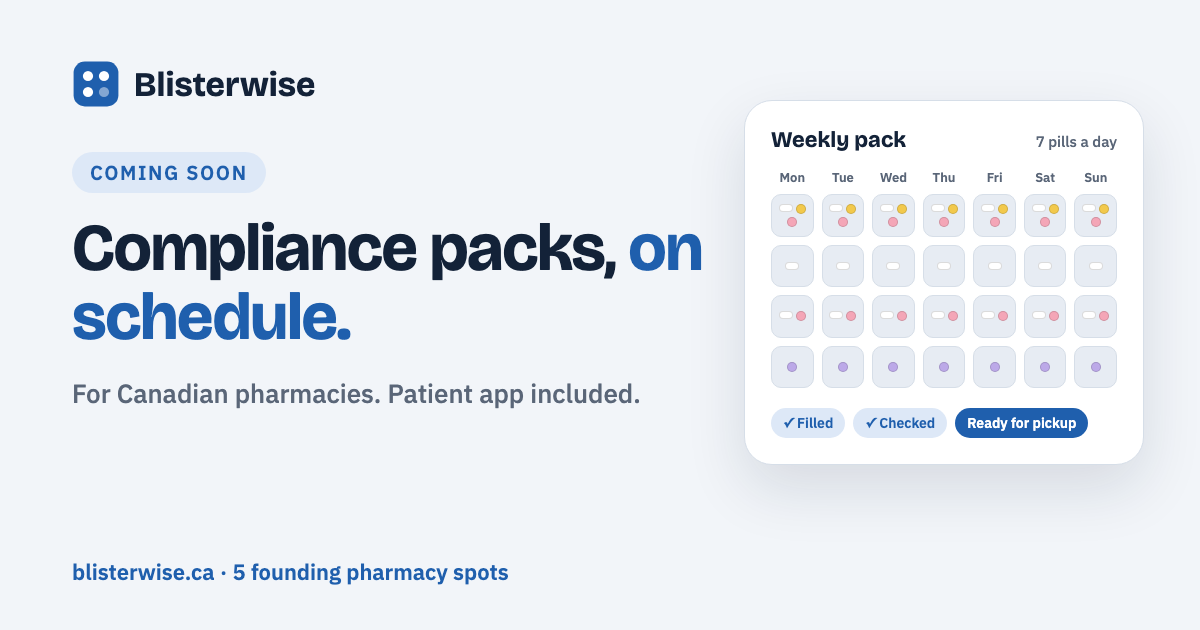
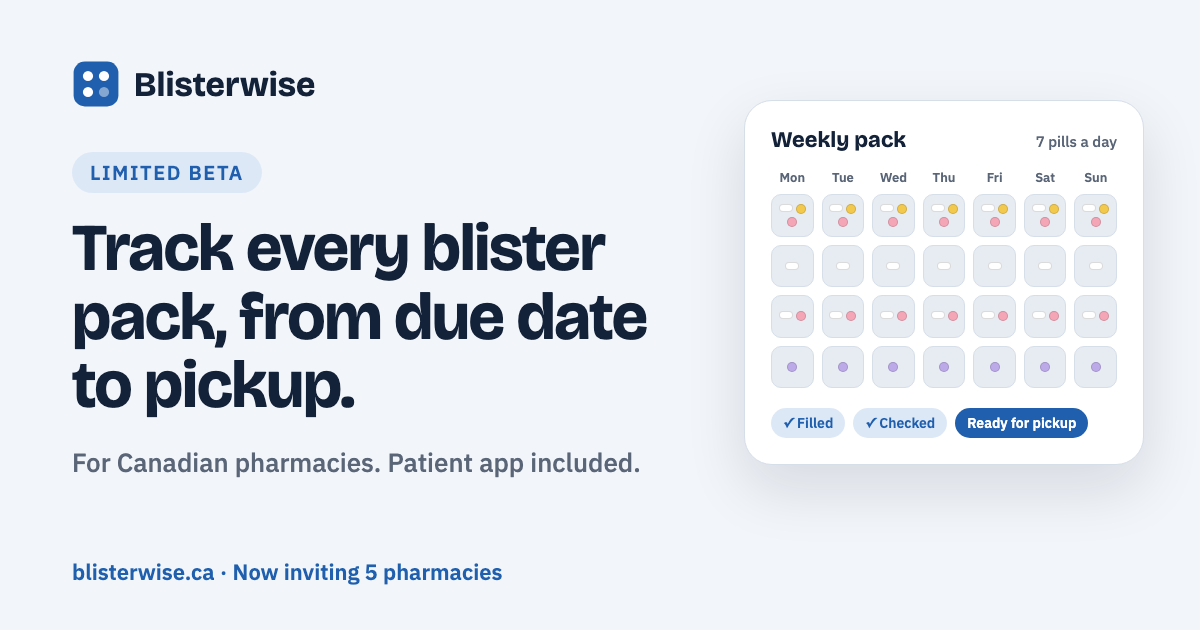
Plainer headings, limited beta and a clear pricing section
Based on feedback that the big display headlines said little and the
pricing block was confusing:
- Headings are now plain sentences that say what Blisterwise does, in
  the body font at a normal size; the descriptive paragraph leads.
- "Pilot" becomes a limited beta of 5 pharmacies, with three plain points.
- A separate Pricing section lays out what a beta pharmacy pays and when:
  free for 12 weeks, $149 a month for the next 12 months, then $299.
- Updated link preview image, page title and privacy page wording.

diff --git a/index.html b/index.html
@@ -3,17 +3,17 @@
 <head>
 <meta charset="utf-8">
 <meta name="viewport" content="width=device-width, initial-scale=1">
-<title>Blisterwise — coming soon</title>
-<meta name="description" content="Blisterwise helps Canadian pharmacies track compliance packs: who's due, what's filled, what's checked and what's gone out. Apply to be one of 5 founding pilot pharmacies.">
-<meta property="og:title" content="Blisterwise — compliance packs, on schedule">
-<meta property="og:description" content="Coming soon for Canadian pharmacies. Apply to be one of 5 founding pilot pharmacies.">
+<title>Blisterwise: blister pack tracking for Canadian pharmacies</title>
+<meta name="description" content="Blisterwise helps Canadian pharmacies track compliance packs: who's due, what's filled, what's checked and what's gone out. Apply to join the limited beta.">
+<meta property="og:title" content="Blisterwise: blister pack tracking for Canadian pharmacies">
+<meta property="og:description" content="Track every blister pack, from due date to pickup. Limited beta for Canadian pharmacies.">
 <meta property="og:type" content="website">
 <meta property="og:site_name" content="Blisterwise">
 <meta property="og:url" content="https://blisterwise.ca/">
 <meta property="og:image" content="https://blisterwise.ca/og-image.png">
 <meta property="og:image:width" content="1200">
 <meta property="og:image:height" content="630">
-<meta property="og:image:alt" content="Blisterwise: compliance packs, on schedule. A weekly blister pack, filled, checked and ready for pickup.">
+<meta property="og:image:alt" content="Blisterwise: track every blister pack, from due date to pickup. A weekly blister pack, filled, checked and ready for pickup.">
 <meta name="twitter:card" content="summary_large_image">
 <link rel="icon" href="favicon.svg" type="image/svg+xml">
 <link rel="apple-touch-icon" href="apple-touch-icon.png">
@@ -37,7 +37,7 @@
   body{margin:0; background:var(--bg); color:var(--ink); font:17px/1.6 var(--f-body); -webkit-font-smoothing:antialiased}
   a{color:inherit; text-underline-offset:3px}
   .wrap{max-width:1140px; margin:0 auto; padding:0 24px}
-  h1,h2{font-family:var(--f-display); font-weight:200; line-height:.95; letter-spacing:-.005em; margin:0}
+  h1,h2{font-family:var(--f-body); font-weight:600; line-height:1.2; letter-spacing:-.01em; margin:0}
   h3{font-size:18px; font-weight:600; margin:0}
   .label{display:block; font-size:12px; font-weight:600; letter-spacing:.14em; text-transform:uppercase; color:var(--muted); margin-bottom:22px}
   .muted{color:var(--muted)}
@@ -61,7 +61,7 @@
 
   /* Hero */
   .hero{display:grid; grid-template-columns:1.12fr .88fr; gap:64px; align-items:center; padding:72px 0 72px}
-  .hero h1{font-size:clamp(60px,7.4vw,112px)}
+  .hero h1{font-size:clamp(30px,3.4vw,42px); max-width:20ch}
   .hero h1 em{white-space:nowrap}
   .hero h1 em{font-style:normal; color:var(--accent)}
   .lead{font-size:clamp(18px,1.6vw,20px); color:var(--muted); max-width:31em; margin:28px 0 36px}
@@ -85,7 +85,7 @@
 
   /* Sections */
   section{padding:80px 0; border-top:1px solid var(--line)}
-  section h2{font-size:clamp(48px,6.4vw,84px)}
+  section h2{font-size:clamp(24px,2.6vw,32px); max-width:28ch}
   .split{display:grid; grid-template-columns:.9fr 1.1fr; gap:64px; align-items:start}
 
   .features{display:grid; grid-template-columns:repeat(3,1fr); gap:40px; margin-top:48px}
@@ -134,6 +134,13 @@
   .figures .big{display:block; font:200 clamp(56px,6vw,84px)/.9 var(--f-display); white-space:nowrap}
   .figures .big em{font-style:normal; color:var(--accent)}
   .figures p{margin:12px 0 0; color:var(--muted)}
+  .timeline{list-style:none; padding:0; margin:0}
+  .timeline li{display:flex; justify-content:space-between; align-items:baseline; gap:16px; padding:18px 0; border-top:1px solid var(--line)}
+  .timeline li:last-child{border-bottom:1px solid var(--line)}
+  .timeline .when{color:var(--muted)}
+  .timeline .price{font-size:22px; font-weight:600; white-space:nowrap}
+  .timeline .price small{font-size:15px; font-weight:400; color:var(--muted)}
+  #pricing .fine{display:block; margin-top:16px}
   .offer-cta{margin-top:48px; display:flex; flex-wrap:wrap; gap:24px; align-items:center}
   .fine{font-size:14px; color:var(--muted)}
 
@@ -171,7 +178,7 @@
   form.pilot .btn[disabled]{opacity:.5; cursor:wait}
   .status{font-size:14px}
   .thanks{border-top:1px solid var(--ink); padding-top:28px}
-  .thanks h2{font-size:clamp(44px,5vw,64px)}
+  .thanks h2{font-size:clamp(24px,2.6vw,32px)}
   .thanks p{color:var(--muted); margin:16px 0 0}
 
   footer{border-top:1px solid var(--line)}
@@ -199,7 +206,8 @@
     <nav aria-label="Main">
       <a href="#pharmacies">For pharmacies</a>
       <a href="#patients">For patients</a>
-      <a href="#pilot-offer">Pilot</a>
+      <a href="#pilot-offer">Beta</a>
+      <a href="#pricing">Pricing</a>
       <a class="btn small" href="#apply">Apply</a>
     </nav>
   </div>
@@ -208,12 +216,12 @@
 <main class="wrap">
   <div class="hero">
     <div>
-      <span class="label">Coming soon · For Canadian pharmacies</span>
-      <h1>Compliance packs, <em>on schedule.</em></h1>
+      <span class="label">Limited beta · For Canadian pharmacies</span>
+      <h1>Track every blister pack, from due date to pickup.</h1>
       <p class="lead">Blisterwise keeps every blister pack on track: who's due this week, what's been filled, what the pharmacist has checked and what's gone out the door. Patients get their own app, too.</p>
       <div class="actions">
-        <a class="btn" href="#apply">Apply for the pilot <span class="arr">→</span></a>
-        <span class="note">5 founding spots</span>
+        <a class="btn" href="#apply">Apply for the beta <span class="arr">→</span></a>
+        <span class="note">5 pharmacies</span>
       </div>
     </div>
 
@@ -226,7 +234,7 @@
 
   <section id="pharmacies">
     <span class="label">For pharmacies</span>
-    <h2>Built for the pack room.</h2>
+    <h2>Schedule, fill, check and hand off every pack in one place.</h2>
     <div class="features">
       <div><h3>Know who's due</h3><p>One list of every pack coming up, with prep and billing dates worked out for weekly, two-week and monthly patients.</p></div>
       <div><h3>Fill and check with confidence</h3><p>Scan each bottle to catch the wrong drug, strength or expiry. A second person checks it before it leaves.</p></div>
@@ -238,8 +246,8 @@
     <div class="split">
       <div>
         <span class="label">For patients and families</span>
-        <h2>An app that explains the pack.</h2>
-        <p class="lead" style="margin-bottom:0">Patients and caregivers see what's coming and what's inside, without calling the pharmacy.</p>
+        <h2>Patients see what's in each pack and when it's ready.</h2>
+        <p class="lead" style="margin-bottom:0">Patients and caregivers get their own app, so they don't need to call the pharmacy to ask.</p>
         <ul class="points">
           <li><h3>When the next pack is ready</h3><p>Pickup or delivery day, updated as the pharmacy fills and checks it.</p></li>
           <li><h3>What's in each pocket</h3><p>Tap a pocket to see each pill, what it looks like and what it's for.</p></li>
@@ -304,19 +312,38 @@
   <section id="pilot-offer">
     <div class="split">
       <div>
-        <span class="label">Founding pharmacies</span>
-        <h2>Help shape Blisterwise.</h2>
-        <p class="lead" style="margin-bottom:0">We're looking for 5 Canadian pharmacies to try it, tell us what works and what doesn't.</p>
+        <span class="label">Limited beta</span>
+        <h2>We're inviting 5 Canadian pharmacies to use Blisterwise first.</h2>
+        <p class="lead" style="margin-bottom:0">Tell us what works and what doesn't, and help decide what we build next.</p>
       </div>
       <div>
-        <div class="figures">
-          <div><span class="big">12 weeks</span><p>Free pilot, with setup help.</p></div>
-          <div><span class="big"><em>$149</em></span><p>A month for your first year. Regular price $299 a month.</p></div>
-        </div>
+        <ul class="points" style="margin-top:0">
+          <li><h3>Free for the first 12 weeks</h3><p>No cost while you try it with your team. <a href="#pricing">See pricing</a>.</p></li>
+          <li><h3>Set up with you, in person</h3><p>We come to your pharmacy, get you started and train your staff.</p></li>
+          <li><h3>A direct line to the founder</h3><p>Regular check-ins, and fixes based on what you need.</p></li>
+        </ul>
         <div class="offer-cta">
-          <a class="btn" href="#apply">Apply for the pilot <span class="arr">→</span></a>
-          <span class="fine">Applying is free and doesn't commit you to anything.<br>Prices in Canadian dollars, plus applicable taxes.</span>
+          <a class="btn" href="#apply">Apply for the beta <span class="arr">→</span></a>
+          <span class="fine">Applying is free and doesn't commit you to anything.</span>
         </div>
+      </div>
+    </div>
+  </section>
+
+  <section id="pricing">
+    <div class="split">
+      <div>
+        <span class="label">Pricing</span>
+        <h2>What a beta pharmacy pays.</h2>
+        <p class="lead" style="margin-bottom:0">One price per pharmacy, for all your staff and patients. Nothing to pay until the 12 free weeks are over, and no obligation to continue.</p>
+      </div>
+      <div>
+        <ol class="timeline">
+          <li><span class="when">First 12 weeks</span><span class="price">Free</span></li>
+          <li><span class="when">Next 12 months</span><span class="price">$149<small> / month</small></span></li>
+          <li><span class="when">After that</span><span class="price">$299<small> / month</small></span></li>
+        </ol>
+        <p class="fine">In Canadian dollars, plus applicable taxes. $299 a month is the regular price for pharmacies that join after the beta.</p>
       </div>
     </div>
   </section>
@@ -325,12 +352,12 @@
     <div class="split">
       <div class="apply-intro">
         <span class="label">Apply</span>
-        <h2>Apply for the pilot.</h2>
+        <h2>Apply for the beta.</h2>
         <p class="lead">Tell us a little about your pharmacy. It takes about two minutes, and we'll reply within a few days.</p>
         <ol class="next">
           <li><h3>We reply within a few days</h3><p>A short email from Haasita, the founder.</p></li>
           <li><h3>An in-person visit</h3><p>We come to your pharmacy, see how you handle packs today and show you Blisterwise.</p></li>
-          <li><h3>Choosing the founding 5</h3><p>If it's a fit, we sign a short pilot agreement, including confidentiality, and set you up for the free 12-week pilot.</p></li>
+          <li><h3>Choosing the 5 beta pharmacies</h3><p>If it's a fit, we sign a short agreement, including confidentiality, and set you up.</p></li>
         </ol>
         <p class="fine">Please don't include any patient information.</p>
       </div>
@@ -383,7 +410,7 @@
             </div><div class="err"></div>
           </fieldset>
           <fieldset class="fld" data-required>
-            <legend>Interested in being one of the 5 founding pilot pharmacies?</legend>
+            <legend>Interested in being one of the 5 beta pharmacies?</legend>
             <div class="choices">
               <label><input type="radio" name="founding" value="Yes">Yes</label>
               <label><input type="radio" name="founding" value="Maybe, tell me more">Maybe, tell me more</label>
@@ -392,7 +419,7 @@
           <div class="fld"><label for="f-wishes">Anything you'd want Blisterwise to do? <span class="opt">(optional)</span></label><textarea id="f-wishes" name="wishes" maxlength="1000" placeholder="e.g. Remind us when a patient's billing date is coming up"></textarea></div>
           <div class="trap" aria-hidden="true"><label>Website <input type="text" name="website" tabindex="-1" autocomplete="off"></label></div>
           <div class="fld" data-required>
-            <label class="consent"><input type="checkbox" name="consent" value="Yes"><span>I agree to be contacted by Blisterwise about the pilot. We'll only use your details for this (<a href="privacy.html" target="_blank">privacy</a>).</span></label><div class="err"></div>
+            <label class="consent"><input type="checkbox" name="consent" value="Yes"><span>I agree to be contacted by Blisterwise about the beta. We'll only use your details for this (<a href="privacy.html" target="_blank">privacy</a>).</span></label><div class="err"></div>
           </div>
           <button class="btn" type="submit">Send application <span class="arr">→</span></button>
           <div class="status" role="status" aria-live="polite"></div>

diff --git a/privacy.html b/privacy.html
@@ -4,7 +4,7 @@
 <meta charset="utf-8">
 <meta name="viewport" content="width=device-width, initial-scale=1">
 <title>Privacy — Blisterwise</title>
-<meta name="description" content="How Blisterwise handles the information you send through the pilot application form.">
+<meta name="description" content="How Blisterwise handles the information you send through the beta application form.">
 <link rel="icon" href="favicon.svg" type="image/svg+xml">
 <link rel="preconnect" href="https://fonts.googleapis.com">
 <link rel="preconnect" href="https://fonts.gstatic.com" crossorigin>
@@ -38,15 +38,15 @@
 
   <main>
     <h1>Privacy</h1>
-    <p class="updated">Last updated November 11, 2026</p>
-    <p>This page explains what happens to the information you send us when you apply for the Blisterwise pilot on this website.</p>
+    <p class="updated">Last updated November 13, 2026</p>
+    <p>This page explains what happens to the information you send us when you apply for the Blisterwise beta on this website.</p>
 
     <h2>What we collect</h2>
-    <p>Only what you type into the pilot application form: your name, pharmacy name, role, city and province, work email, phone number (if you give it), and your answers about how your pharmacy handles compliance packs.</p>
+    <p>Only what you type into the beta application form: your name, pharmacy name, role, city and province, work email, phone number (if you give it), and your answers about how your pharmacy handles compliance packs.</p>
     <p>The form asks you not to include any patient information. Please don't.</p>
 
     <h2>Why we collect it</h2>
-    <p>To contact you about the pilot, to choose the founding pharmacies, and to understand what pharmacies need from Blisterwise. We don't use it for anything else.</p>
+    <p>To contact you about the beta, to choose the beta pharmacies, and to understand what pharmacies need from Blisterwise. We don't use it for anything else.</p>
 
     <h2>Where it's kept</h2>
     <p>Applications are stored in Blisterwise's Google Workspace account (Google Sheets and Gmail). Google may store this information on servers outside Canada. Only Blisterwise can see it.</p>
@@ -55,7 +55,7 @@
     <p>No one. We don't sell, rent or share your information.</p>
 
     <h2>How long we keep it</h2>
-    <p>Only as long as we need it for the pilot. If you don't go on to use Blisterwise, we delete your application within 12 months.</p>
+    <p>Only as long as we need it for the beta. If you don't go on to use Blisterwise, we delete your application within 12 months.</p>
 
     <h2>Your choices</h2>
     <p>You can ask to see, correct or delete your information at any time by emailing <a href="mailto:haasita@blisterwise.ca">haasita@blisterwise.ca</a>.</p>
